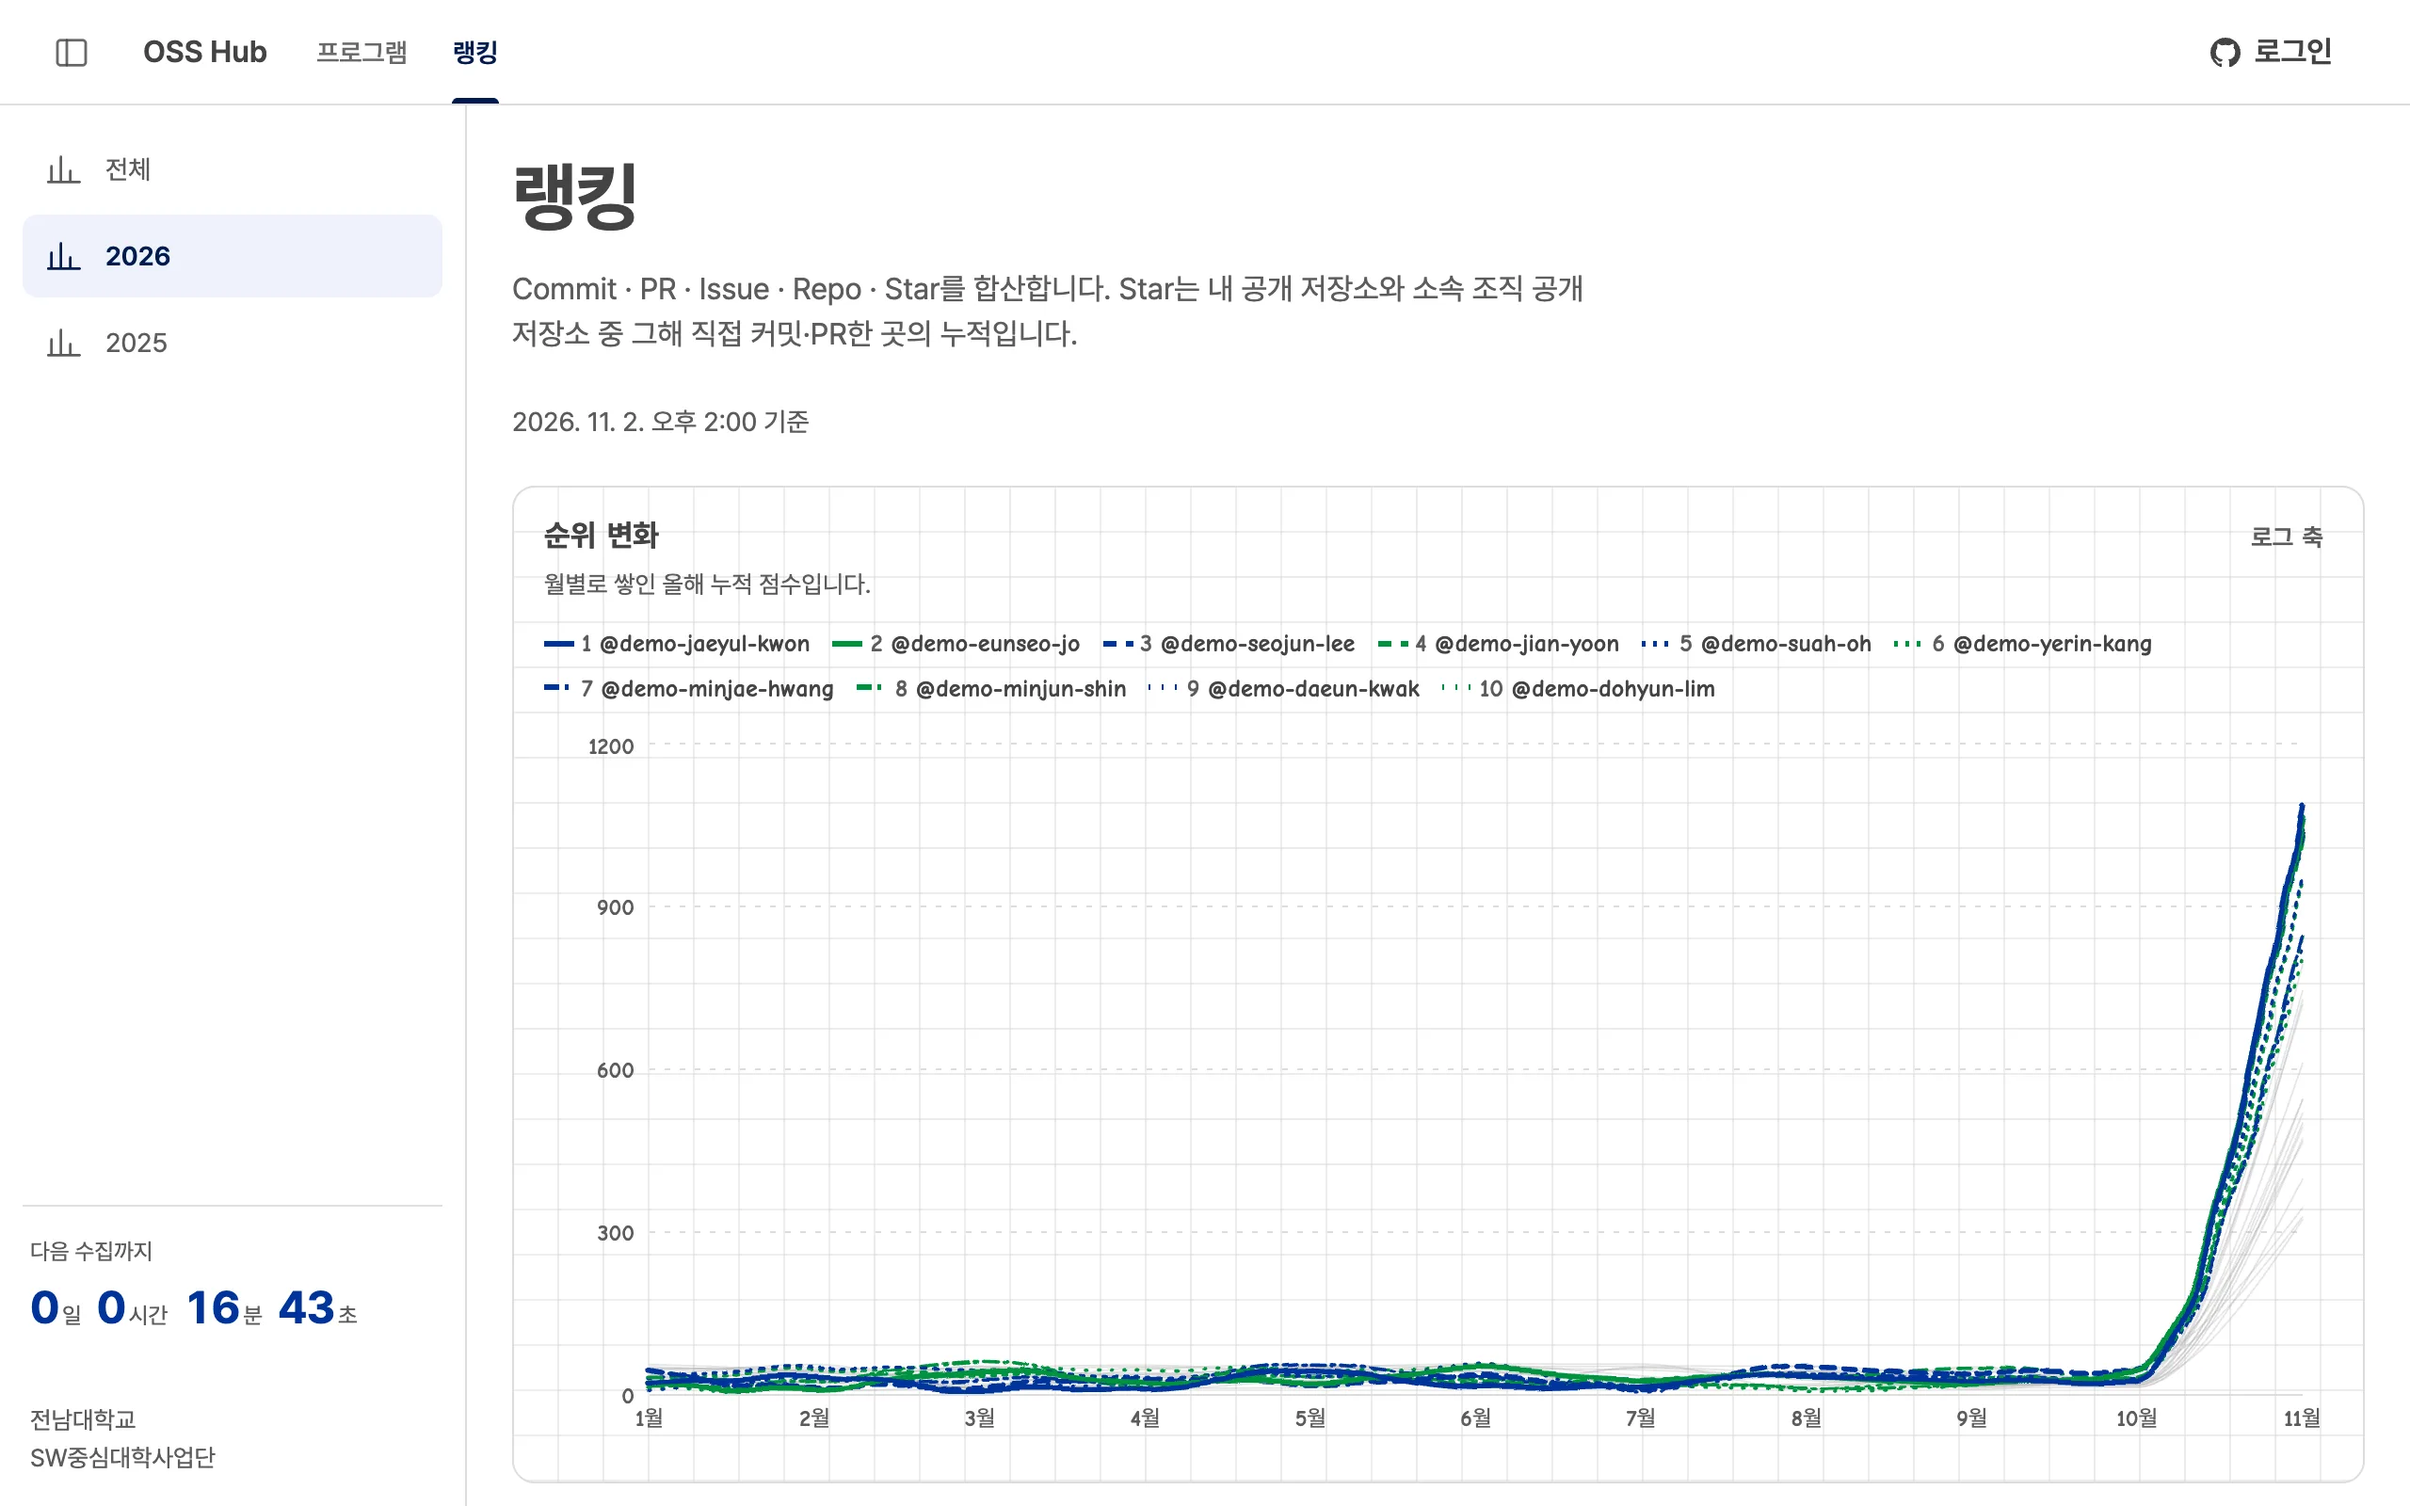
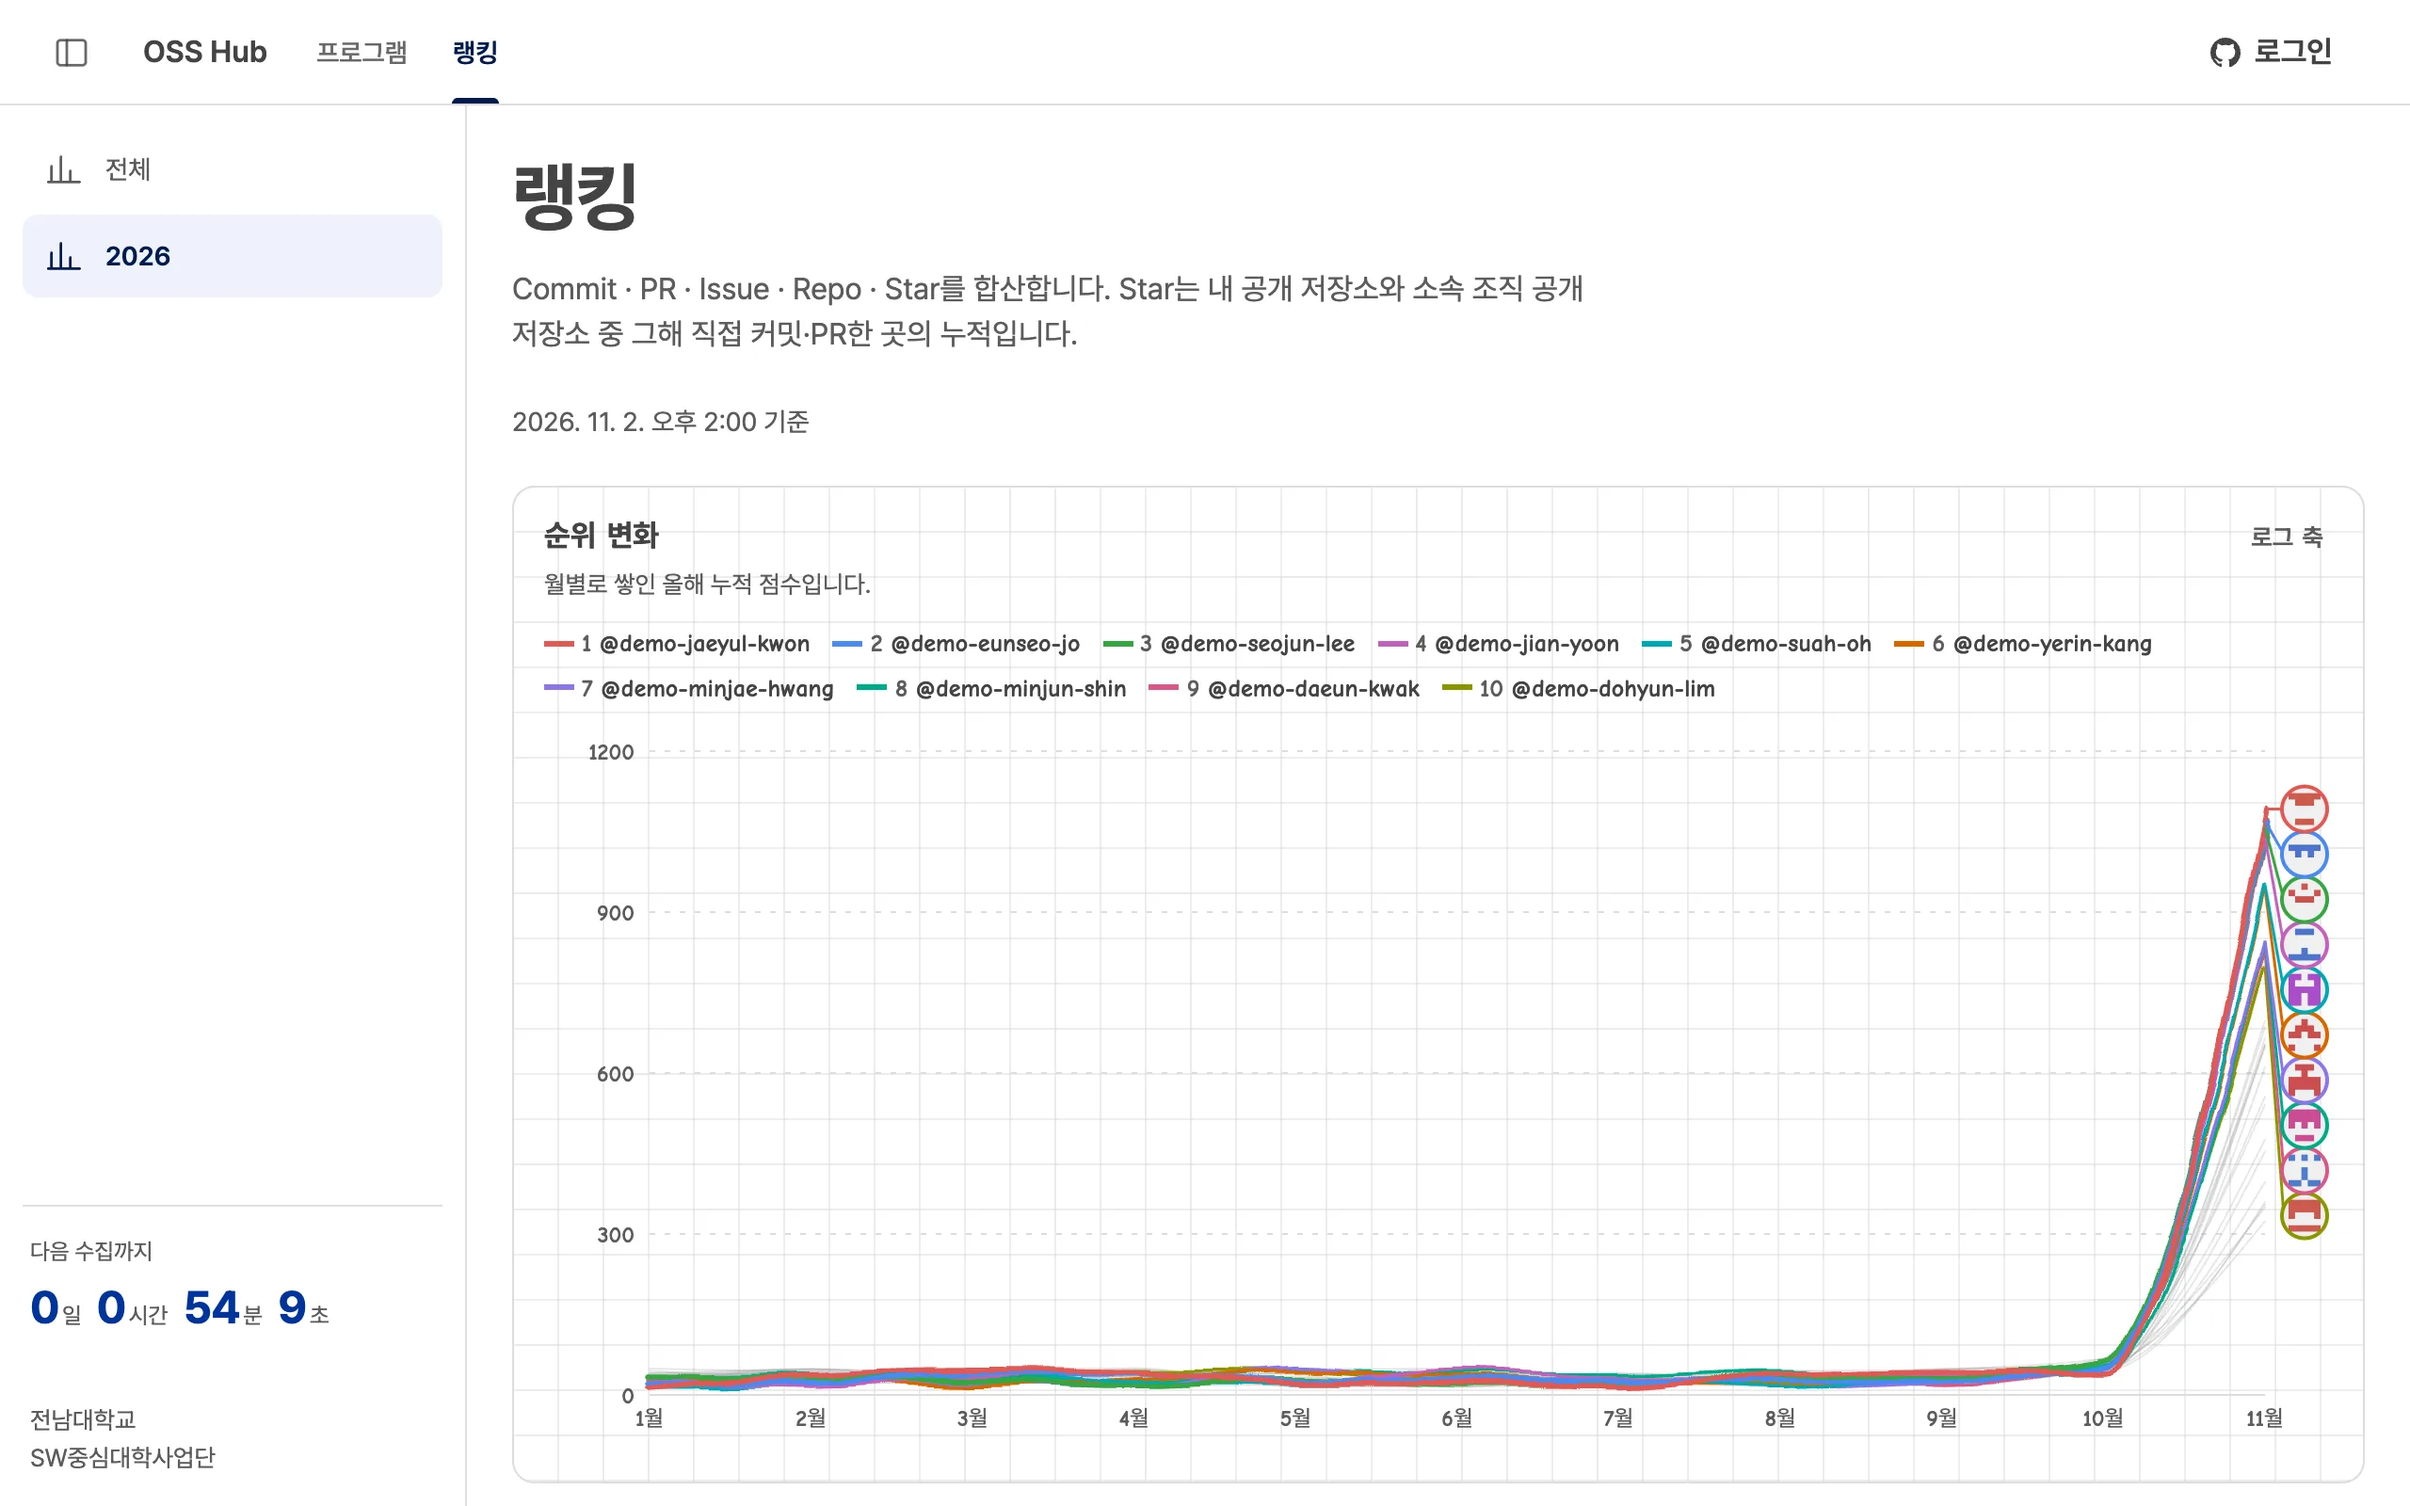
docs(guide): 랭킹 그래프의 색 구분 선과 선 끝 프로필 사진을 안내한다

diff --git a/guide/src/site.ts b/guide/src/site.ts
@@ -1,4 +1,4 @@
 export const lastChecked = '2026-11-02';
 export const releaseVersion = 'v0.24.20';
-export const checkedCommit = 'b1fec473e446e4db6dbd8206278f95b10535853d';
+export const checkedCommit = 'adc22bdb4b9e72763ebd93fb19ef359efd6ffb94';
 export const serviceUrl = 'https://jnu-oss-hub.com';
